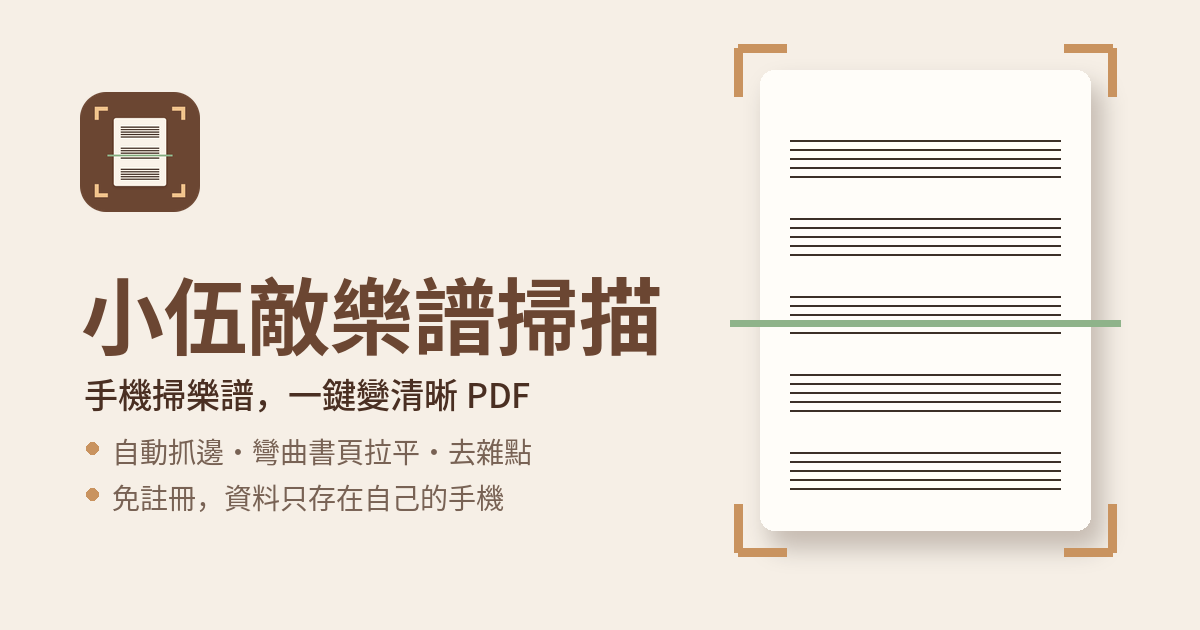
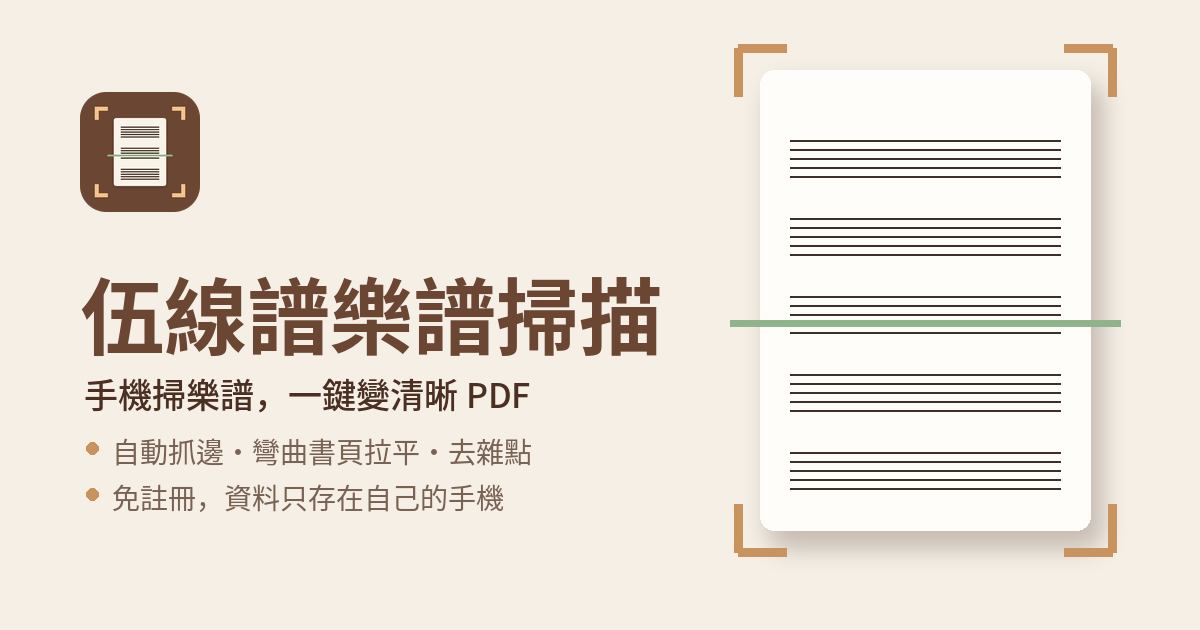
v1.26

Changed region(s): [[0.0617, 0.4222, 0.2775, 0.573]]

diff --git a/index.html b/index.html
@@ -3,11 +3,11 @@
 <head>
 <meta charset="utf-8">
 <meta name="viewport" content="width=device-width, initial-scale=1, maximum-scale=1, user-scalable=no, viewport-fit=cover">
-<title>小伍敵樂譜掃描｜精確的攜帶式 PDF 掃描神器</title>
+<title>伍線譜樂譜掃描｜精確的攜帶式 PDF 掃描神器</title>
 <meta name="description" content="用手機把樂譜、講義掃成清晰的 PDF：自動抓邊、彎曲書頁拉平、去雜點。免註冊，資料只存在自己的手機。">
 <meta property="og:type" content="website">
-<meta property="og:site_name" content="小伍敵樂譜掃描">
-<meta property="og:title" content="小伍敵樂譜掃描｜精確的攜帶式 PDF 掃描神器">
+<meta property="og:site_name" content="伍線譜樂譜掃描">
+<meta property="og:title" content="伍線譜樂譜掃描｜精確的攜帶式 PDF 掃描神器">
 <meta property="og:description" content="用手機把樂譜、講義掃成清晰的 PDF：自動抓邊、彎曲書頁拉平、去雜點。免註冊，資料只存在自己的手機。">
 <meta property="og:url" content="https://andywu1101.github.io/scanner/">
 <meta property="og:image" content="https://andywu1101.github.io/scanner/og-image.png">
@@ -15,13 +15,13 @@
 <meta property="og:image:height" content="630">
 <meta property="og:locale" content="zh_TW">
 <meta name="twitter:card" content="summary_large_image">
-<meta name="twitter:title" content="小伍敵樂譜掃描｜精確的攜帶式 PDF 掃描神器">
+<meta name="twitter:title" content="伍線譜樂譜掃描｜精確的攜帶式 PDF 掃描神器">
 <meta name="twitter:description" content="用手機把樂譜、講義掃成清晰的 PDF：自動抓邊、彎曲書頁拉平、去雜點。免註冊，資料只存在自己的手機。">
 <meta name="twitter:image" content="https://andywu1101.github.io/scanner/og-image.png">
 <meta name="theme-color" content="#FFFCF8">
 <meta name="apple-mobile-web-app-capable" content="yes">
 <meta name="mobile-web-app-capable" content="yes">
-<meta name="apple-mobile-web-app-title" content="小伍敵掃描">
+<meta name="apple-mobile-web-app-title" content="伍線譜掃描">
 <script>
 /* Android／桌機 Chromium 的安裝事件可能很早就觸發，要放在最前面接（事件物件只能用一次） */
 window.__a2hsPrompt = null;
@@ -478,7 +478,7 @@ input[type=file]{display:none}
     <button class="cv-ver" id="cvVer" aria-label="更新日誌">▸ v</button>
     <div class="cv-card">
       <svg class="cv-art" viewBox="0 0 120 160" width="75" height="100" aria-hidden="true"><defs><filter id="cvsh" x="-20%" y="-20%" width="140%" height="140%"><feDropShadow dx="0" dy="3" stdDeviation="3" flood-color="#4A2F22" flood-opacity=".18"/></filter></defs><rect x="12" y="12" width="96" height="136" rx="7" fill="#FFFCF8" filter="url(#cvsh)"/><g stroke="#3A281E" stroke-width="0.9"><line x1="22" x2="98" y1="30.0" y2="30.0"/><line x1="22" x2="98" y1="33.2" y2="33.2"/><line x1="22" x2="98" y1="36.4" y2="36.4"/><line x1="22" x2="98" y1="39.6" y2="39.6"/><line x1="22" x2="98" y1="42.8" y2="42.8"/><line x1="22" x2="98" y1="56.0" y2="56.0"/><line x1="22" x2="98" y1="59.2" y2="59.2"/><line x1="22" x2="98" y1="62.4" y2="62.4"/><line x1="22" x2="98" y1="65.6" y2="65.6"/><line x1="22" x2="98" y1="68.8" y2="68.8"/><line x1="22" x2="98" y1="82.0" y2="82.0"/><line x1="22" x2="98" y1="85.2" y2="85.2"/><line x1="22" x2="98" y1="88.4" y2="88.4"/><line x1="22" x2="98" y1="91.6" y2="91.6"/><line x1="22" x2="98" y1="94.8" y2="94.8"/><line x1="22" x2="98" y1="108.0" y2="108.0"/><line x1="22" x2="98" y1="111.2" y2="111.2"/><line x1="22" x2="98" y1="114.4" y2="114.4"/><line x1="22" x2="98" y1="117.6" y2="117.6"/><line x1="22" x2="98" y1="120.8" y2="120.8"/><line x1="22" x2="98" y1="134.0" y2="134.0"/><line x1="22" x2="98" y1="137.2" y2="137.2"/><line x1="22" x2="98" y1="140.4" y2="140.4"/><line x1="22" x2="98" y1="143.6" y2="143.6"/><line x1="22" x2="98" y1="146.8" y2="146.8"/></g><path d="M2 20V2h18M100 2h18v18M118 140v18h-18M20 158H2v-18" fill="none" stroke="#C9935F" stroke-width="4"/><line x1="0" x2="120" y1="80" y2="80" stroke="#8FB38A" stroke-width="3.5"/></svg>
-      <h1 class="cv-title">小伍敵樂譜掃描</h1>
+      <h1 class="cv-title">伍線譜樂譜掃描</h1>
       <div class="cv-sub">SHEET MUSIC SCANNER</div>
       <p class="cv-msg">這個工具完全免費，<br>掃描的資料只保存在本設備裡。<br>如果它對你瀏覽樂譜有幫助，<br>歡迎小額贊助支持後續開發與維護。</p>
       <div><button class="cv-a2hs" id="cvA2hs">📲 請先加入主畫面，再開始掃描</button></div>
@@ -496,7 +496,7 @@ input[type=file]{display:none}
 <section class="screen" id="home">
   <header class="bar home-bar">
     <button class="cvback" id="homeCover" aria-label="回封面"><svg viewBox="0 0 24 24" fill="none" stroke="currentColor" stroke-width="2.4" stroke-linecap="round" stroke-linejoin="round"><path d="M15 18l-6-6 6-6"/></svg>封面</button>
-    <h1>小伍敵樂譜掃描</h1>
+    <h1>伍線譜樂譜掃描</h1>
     <span class="sp1"></span>
     <button class="ibtn" id="btnHelp" aria-label="使用教學"><svg viewBox="0 0 24 24" fill="none" stroke="currentColor" stroke-width="1.8" stroke-linecap="round" stroke-linejoin="round"><circle cx="12" cy="12" r="9.5"/><path d="M9.3 9.2a2.8 2.8 0 0 1 5.4 1c0 1.9-2.7 2.4-2.7 4"/><circle cx="12" cy="17.4" r=".6" fill="currentColor"/></svg></button>
     <button class="ibtn" id="btnSettings" aria-label="設定"><svg viewBox="0 0 24 24" fill="none" stroke="currentColor" stroke-width="1.8" stroke-linecap="round" stroke-linejoin="round"><circle cx="12" cy="12" r="3"/><path d="M19.4 15a1.7 1.7 0 0 0 .3 1.8l.1.1a2 2 0 1 1-2.8 2.8l-.1-.1a1.7 1.7 0 0 0-1.8-.3 1.7 1.7 0 0 0-1 1.5V21a2 2 0 1 1-4 0v-.1a1.7 1.7 0 0 0-1.1-1.5 1.7 1.7 0 0 0-1.8.3l-.1.1a2 2 0 1 1-2.8-2.8l.1-.1a1.7 1.7 0 0 0 .3-1.8 1.7 1.7 0 0 0-1.5-1H3a2 2 0 1 1 0-4h.1a1.7 1.7 0 0 0 1.5-1.1 1.7 1.7 0 0 0-.3-1.8l-.1-.1a2 2 0 1 1 2.8-2.8l.1.1a1.7 1.7 0 0 0 1.8.3H9a1.7 1.7 0 0 0 1-1.5V3a2 2 0 1 1 4 0v.1a1.7 1.7 0 0 0 1 1.5 1.7 1.7 0 0 0 1.8-.3l.1-.1a2 2 0 1 1 2.8 2.8l-.1.1a1.7 1.7 0 0 0-.3 1.8V9a1.7 1.7 0 0 0 1.5 1H21a2 2 0 1 1 0 4h-.1a1.7 1.7 0 0 0-1.5 1z"/></svg></button>
@@ -720,8 +720,8 @@ input[type=file]{display:none}
       <li><span class="a2-num">2</span><span>點「安裝應用程式」或「加到主畫面」（不同手機用詞不同）</span></li>
       <li><span class="a2-num">3</span><span>點「安裝」或「新增」</span></li>
     </ol>
-    <p class="a2-done">完成後，從主畫面的「小伍敵掃描」打開就可以了 🎉</p>
-    <p style="font-size:13.5px;margin:-4px 0 12px">如果已經加入過，請直接從主畫面的「小伍敵掃描」圖示打開。</p>
+    <p class="a2-done">完成後，從主畫面的「伍線譜掃描」打開就可以了 🎉</p>
+    <p style="font-size:13.5px;margin:-4px 0 12px">如果已經加入過，請直接從主畫面的「伍線譜掃描」圖示打開。</p>
     <button type="button" class="d-dismiss" data-close>關閉</button>
   </div>
 </div>

diff --git a/app.js b/app.js
@@ -1,4 +1,4 @@
-/* 小伍敵樂譜掃描 — 主程式（內部資料名稱 cocoscan 維持不變，避免舊資料遺失） */
+/* 伍線譜樂譜掃描 — 主程式（內部資料名稱 cocoscan 維持不變，避免舊資料遺失） */
 'use strict';
 const $ = (s) => document.querySelector(s);
 const FULL = [[0, 0], [1, 0], [1, 1], [0, 1]];
@@ -2768,7 +2768,7 @@ async function aiFrameDoc() {
 /* ---------- 版本、更新日誌、問題回報（1.18，比照音樂聽力練習 App） ----------
    APP_VER：封面右下角與設定顯示的完整版號，每次打包都要改（與 sw.js VERSION、打包號碼一致）。
    日誌只有一欄「v1」，條列目前的功能；新增項目時加 since: '1.xx'，該版之後第一次進首頁會自動跳出一次，新項目紅字 */
-const APP_VER = '1.25';
+const APP_VER = '1.26';
 const REPORT_URL = 'https://forms.gle/PgTtxmJ7itWyKD3T7';
 const CHANGELOG = [
   { v: 'v1', items: [

diff --git a/ai-worker.js b/ai-worker.js
@@ -1,4 +1,4 @@
-/* 小伍敵樂譜掃描 — AI 框選 Worker（1.25）
+/* 伍線譜樂譜掃描 — AI 框選 Worker（1.25）
    U²-Net（u2netp，4.6 MB）找出畫面主體（紙張）的遮罩；用 ONNX Runtime Web（WebAssembly，單執行緒）執行。
    輸入：320×320 RGBA；輸出：320×320 的 0～255 遮罩。四個角由 worker.js 的 maskQuad 依遮罩與紙邊求出。 */
 self.importScripts('lib/ai/ort.wasm.min.js');

diff --git a/sw.js b/sw.js
@@ -1,5 +1,5 @@
-/* 小伍敵樂譜掃描 — Service Worker（離線可用） */
-const VERSION = 'cocoscan-v26';
+/* 伍線譜樂譜掃描 — Service Worker（離線可用） */
+const VERSION = 'cocoscan-v27';
 // AI 框選的模型與執行環境（約 15 MB）：第一次使用時由 app.js 下載放進這個快取，換版本不清掉（1.25）
 const AI_CACHE = 'cocoscan-ai';
 const ASSETS = [

diff --git a/worker.js b/worker.js
@@ -1,4 +1,4 @@
-/* 小伍敵樂譜掃描 — 影像處理 Worker（OpenCV.js） */
+/* 伍線譜樂譜掃描 — 影像處理 Worker（OpenCV.js） */
 self.importScripts('lib/opencv.js');
 
 let cvReady = null;

diff --git a/README.md b/README.md
@@ -1,4 +1,4 @@
-# 小伍敵樂譜掃描
+# 伍線譜樂譜掃描
 
 手機文件掃描 PWA：自動抓文件邊框、透視校正（含真實長寬比還原）、去陰影、四種增強模式、多頁管理、匯出 PDF／圖片。所有資料只存在手機瀏覽器裡，不會上傳。
 
@@ -73,3 +73,11 @@
 
 - 上傳時記得包含新的 `ai-worker.js` 與 `lib/ai/` 資料夾（約 15 MB，其中 `ort-wasm-simd.wasm` 約 10 MB，用網頁上傳也在 GitHub 的 25 MB 單檔限制內）。
 - 第一次按「AI 框選」時，App 會先詢問是否下載約 15 MB 的 AI 資料，下載後存在手機裡，之後離線也能用；更新 App 版本不需要重新下載。
+
+## 1.26 版：改名為「伍線譜樂譜掃描」（需要重新加入主畫面）
+
+- App 名稱改為「伍線譜樂譜掃描」，主畫面名稱改為「伍線譜掃描」，分享預覽圖也換了新的標題。
+- 主畫面上的名稱要重新加入才會更新：
+  1. 先在舊版 App 裡，把想保留的掃描匯出成 PDF（刪除主畫面 App 會一併清除裡面的掃描）。
+  2. 上傳 1.26 版檔案到 GitHub（記得包含新的 `og-image.png`）。
+  3. 在主畫面長按舊的 App 刪除，再用 Safari 重新打開網址 → 分享 → 加入主畫面。
